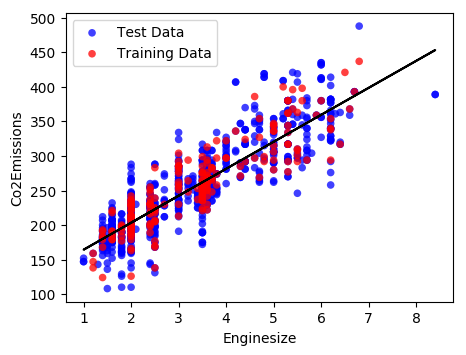
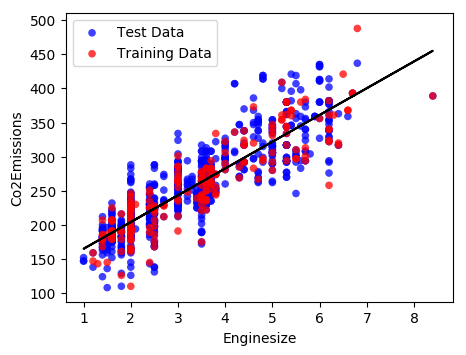
added function for conducting multiple linear regression and returning fitting coefficients and uncertainties

diff --git a/plotWithFitLine.py b/plotWithFitLine.py
@@ -88,8 +88,93 @@ def scatPlot(xAxis,yAxis, pathToCsv, fitline=True, flOrder = 1, xLabel=True, yLa
     plt.show()
 
 
+def mlLinRegressParams(xParams,yParams,pathToCsv, trainDataRatio = 0.8):
+    """
+    Function which uses sklearn machine learning package to perform a multiple linear
+    on a csv file imported using pandas.
 
-def plotMLregression(xAxis, yAxis, pathToCsv, colors = ("blue", "red"), location=2, scale = 5, ratio = .75, fitline = True, flOrder = 1, xLabel=True, yLabel=True, fontSize = 10, saveFile = False, dirName = os.getcwd()):
+    Parameters:
+    -----------
+    xParams :        array like list of independent x parameters given as the names
+                     of the column headers in the csv file.
+    yParams :        array like list of dependent y parameters given as the names
+                     of the column headers in the csv file.
+    pathToCsv :      path to given csv file
+    trainDataRatio : ratio of the % of data used for training to the % used for testing
+                     of the machine learning data
+
+    Returns:
+    --------
+    An arraylike object consisting of the expansion coefficients, the residual sum of squares
+    and the variance score.
+    """
+
+    df = pd.read_csv(pathToCsv)
+    for xParam in xParams:
+        try:
+            xVals = df[xParam]
+        except KeyError:
+            print('\nError: No column named ' + xParam + ' is avalable' '\nAvalable columns are:\n' + '%s' % '\n'.join(map(str, headerLabels)) + '\n')
+
+    for yParam in yParams:
+        try:
+            yVals = df[yParam]
+        except KeyError:
+            print('\nError: No column named ' + yParam + ' is avalable' '\nAvalable columns are:\n' + '%s' % '\n'.join(map(str, headerLabels)) + '\n')
+
+    ## Select only the parameters that we want to look at in the dataframe ##
+    cdf = df[xParams+ yParams]
+    ## Here we decide that the train data is 80% of the data and the test is 20% ##
+    msk = np.random.rand(len(df)) < trainDataRatio
+    train = cdf[msk]
+    test = cdf[~msk]
+
+    ## Print the expansion coefficients of the training data ##
+    regr = linear_model.LinearRegression()
+    x = np.asanyarray(train[xParams])
+    y = np.asanyarray(train[yParams])
+    regr.fit (x, y)
+    regCoeffs = np.asanyarray(regr.coef_[0])
+
+    ## Now test the regression model against the test data and analyze the error ##
+    y_hat= regr.predict(test[xParams])
+    x = np.asanyarray(test[xParams])
+    y = np.asanyarray(test[yParams])
+    resSumofSq =  np.mean((y_hat - y) ** 2)
+
+    # Explained variance score: 1 is perfect prediction
+    varScore = regr.score(x, y)
+
+    return np.asanyarray([regCoeffs, resSumofSq, varScore])
+
+
+
+def plotMLregression(xAxis, yAxis, pathToCsv, colors = ("blue", "red"), location=2, scale = 5, ratio = .75, fitline = True, flOrder = 1, xLabel=True, yLabel=True, fontSize = 10, saveFile = False, dirName = os.getcwd(), trainDataRatio = 0.8):
+
+    """
+    Function which uses sklearn machine learning package to perform a linear regression
+    on a csv file imported using pandas.
+
+    Parameters:
+    -----------
+    xAxis :        (str) associated with the name of the column from the csv file to appear
+                   on the x axis of the plot
+    yAxis :        (str) associated with the name of the column from the csv file to appear
+                   on the x axis of the plot
+    pathToCsv :    (str) path to given csv file
+    colors :       (str,str) tuple of len 2 with the first entry representing the color of the
+                   training data and the second color the testing data
+    location :     (int) gives the location of the plot legend
+    dirName :      (str) name of the directory to which the file should be saved
+    trainDataRatio : ratio of the % of data used for training to the % used for testing
+                     of the machine learning data
+
+    Returns:
+    --------
+    A plot of the data with the training data and the test data labeled by color and a best fit line
+    for the linear regression of the training data.
+    """
+
     fig = plt.figure(figsize=(scale, ratio * scale))
     ax = fig.add_subplot(111)
     df = pd.read_csv(pathToCsv)
@@ -110,7 +195,7 @@ def plotMLregression(xAxis, yAxis, pathToCsv, colors = ("blue", "red"), location
     pL = [xAxis,yAxis]
     cdf = df[[xAxis,yAxis]]
 
-    msk = np.random.rand(len(df)) < 0.8
+    msk = np.random.rand(len(df)) < trainDataRatio
     train = cdf[msk]
     test = cdf[~msk]
 
@@ -129,18 +214,20 @@ def plotMLregression(xAxis, yAxis, pathToCsv, colors = ("blue", "red"), location
         xValsSorted = np.sort(xVals)
         intOrder = int(flOrder)
         if intOrder == 1:
+            ## Print the expansion coefficients of the training data ##
             regr = linear_model.LinearRegression()
             train_x = np.asanyarray(train[[xAxis]])
             train_y = np.asanyarray(train[[yAxis]])
             regr.fit (train_x, train_y)
+            # Print the coefficients from the expansion
+            print ('\nCoefficients: ', regr.coef_)
+            print ('Intercept: ',regr.intercept_)
 
+            ## Now test the regression model against the test data and analyze the error ##
             test_x = np.asanyarray(test[[xAxis]])
             test_y = np.asanyarray(test[[yAxis]])
             test_y_ = regr.predict(test_x)
 
-            # Print the coefficients from the expansion
-            print ('\nCoefficients: ', regr.coef_)
-            print ('Intercept: ',regr.intercept_)
             # print various error metrics to mesasure the accuracy of our linear model
             print("Mean absolute error: %.2f" % np.mean(np.absolute(test_y_ - test_y)))
             print("Residual sum of squares (MSE): %.2f" % np.mean((test_y_ - test_y) ** 2))
@@ -170,6 +257,10 @@ def plotMLregression(xAxis, yAxis, pathToCsv, colors = ("blue", "red"), location
         plt.savefig(os.path.join(dirName, 'mL_{}_vs_{}_fitOrder{}.png'.format(yAxis,xAxis,flOrder)), bbox_inches='tight')
         
     plt.show()
+
+
+
+
 
 def histPlots(paramList,pathToCsv):
     df = pd.read_csv(pathToCsv)

diff --git a/mlLinearRegression.py b/mlLinearRegression.py
@@ -9,6 +9,8 @@ from plotWithFitLine import printListOfHeaders
 from plotWithFitLine import scatPlot
 from plotWithFitLine import plotMLregression
 from plotWithFitLine import histPlots
+from plotWithFitLine import mlLinRegressParams
+
 #%matplotlib inline
 
 ## Reading in the data and creating a dataframe using pandas ##
@@ -36,3 +38,12 @@ plotMLregression('ENGINESIZE','CO2EMISSIONS',"example.csv",saveFile=True)
 
 ## Plot of Linear regression using numpy values ##
 scatPlot('ENGINESIZE','CO2EMISSIONS',"example.csv",saveFile=True)
+
+## Calculate the  ##
+xVals = ['ENGINESIZE','CYLINDERS','FUELCONSUMPTION_COMB']
+yVals = ['CO2EMISSIONS']
+regParams = mlLinRegressParams(xVals, yVals, "example.csv", trainDataRatio = 0.8)
+print ('\nmultiple linear regression')
+print ('Coefficients: ', regParams[0])
+print("Residual sum of squares: %.2f" % regParams[1])
+print('Variance score: %.2f' % regParams[2])

diff --git a/README.md b/README.md
@@ -1,11 +1,13 @@
-# Plot data from csv flile with fitline	
-function for plotting data from a csv file using pandas.
+# Regression models for machine learning	
+A set of functions for doing machine learning regression using sklearn, numpy, and pandas packages
 
 ## Instructions
-* Function will create a simple scatter plot with an optional fitline.
+* Functions can be used to conduct regression analysis and return fitting parameters as well as creating plots.
 
 
 ## To Do
-* Add legend with r-squared value and fitting equation.
+* Continue to improve functionality for non-linear models.
+* Build up functions to include more sophisticated machine learning algorithms.
+* continue to improve documentation.
 
 
